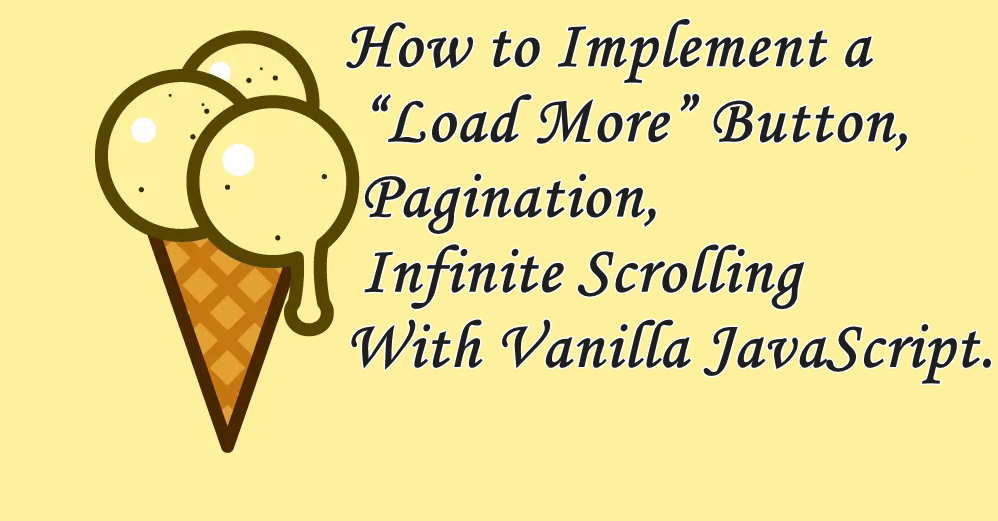
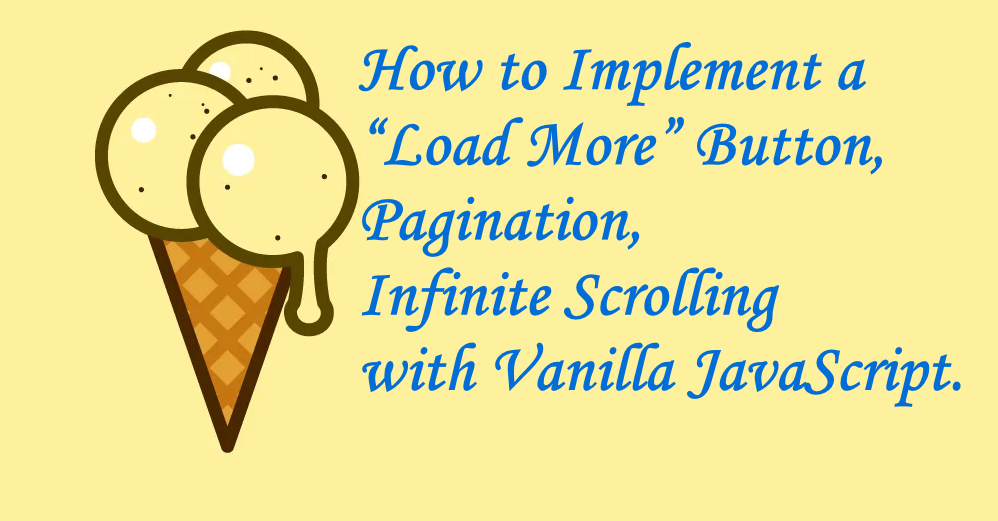
Summary

Changed region(s): [[0.3417, 0.0307, 0.994, 0.7985]]

diff --git a/src/index.html b/src/index.html
@@ -10,7 +10,7 @@
 </head>
 
 <body class="body__home">
-  <h1>Load More, Infinite Scroll, Pagination</h1>
+  <h1 class="title__home">Load More, Infinite Scroll, Pagination</h1>
   <nav>
     <ul class="navigate">
       <li><a href="./loadmore.html" class="navigate__link navigate__btn"><span>Click!</span><span>Load More</span></a>

diff --git a/src/sass/_home-pages.scss b/src/sass/_home-pages.scss
@@ -2,6 +2,10 @@
      background-color: rgba(254,241,157,255);
 }
 
+.title__home {
+  color: #174ea6;
+}
+
 .navigate {
   display: flex;
   justify-content: center;
@@ -33,7 +37,6 @@
 .navigate__link span {
     font-family: 'Neueyokarto';
 }
-
 
 .navigate__btn{
   position: relative;
